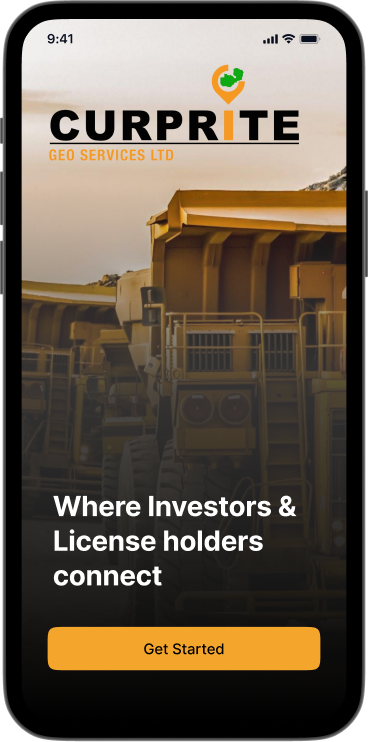
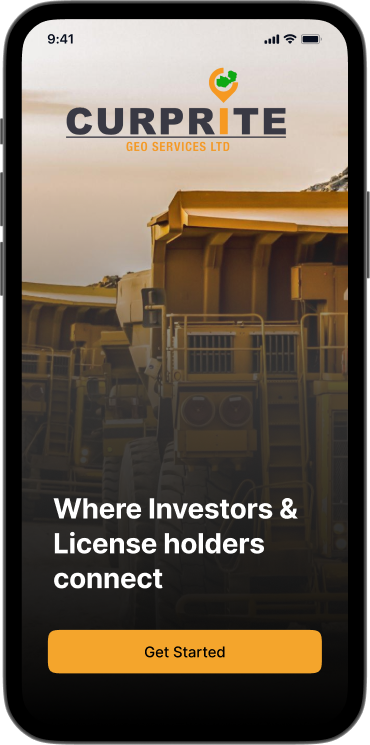
Fixes

diff --git a/index.html b/index.html
@@ -38,64 +38,20 @@
 
 <body>
 
-    <!--====== OFFCANVAS MENU PART START ======-->
-
-    <div class="off_canvars_overlay" >
-
-    </div>
-    <div class="offcanvas_menu" >
-        <div class="container-fluid">
-            <div class="row">
-                <div class="col-12">
-                    <div class="offcanvas_menu_wrapper">
-                        <div class="canvas_close">
-                            <a href="javascript:void(0)"><i class="fal fa-times"></i></a>
-                        </div>
-                   
-                        <div id="menu" class="text-left" style="color:orange;">
-                           <ul class="offcanvas_main_menu">
-                                <li class="menu-item-has-children active">
-                                    <a class="page-scroll" href="#home" style="color:orange;">Home</a>
-                                </li>
-                                <li class="menu-item-has-children">
-                                    <a class="page-scroll" href="#intro">Intro</a>
-                                </li>
-                                <li class="menu-item-has-children ">
-                                    <a class="page-scroll" href="#team">Team</a>
-                                </li>
-                                <li class="menu-item-has-children ">
-                                    <a class="page-scroll" href="#services">Services</a>
-                                </li>
-                                <li class="menu-item-has-children">
-                                    <a class="page-scroll" href="#preview">Preview</a>
-                                </li>
-                                <!-- <li class="menu-item-has-children ">
-                                    <a class="page-scroll" href="/platform">Investor Platform</a>
-                                </li> -->
-                            </ul>
-                        </div>
-                        <div class="offcanvas_footer">
-                            <span><a href="mailto:support@zmh.co.zm"><i class="fa fa-envelope-o"></i>
-                                    support@zmh.co.zm</a></span>
-                        </div>
-                    </div>
-                </div>
-            </div>
-        </div>
-    </div>
-
-    <!--====== OFFCANVAS MENU PART ENDS ======-->
-
+    
     <!--====== HEADER PART START ======-->
 
     <header id="home" class="header-area header-v1-area" >
         <div class="header-nav" style="background-color: white; margin-top: -25px; padding-top: 20px; padding-bottom: 20px;">
+          
             <div class="container" >
                 <div class="row" >
                     <div class="col-lg-12" >
                         <div class="navigation" >
                             <nav class="navbar navbar-expand-lg navbar-light">
-                                <a class="navbar-brand" href="index.html"><img width="200"src="https://github.com/Mwimwii/mining-hub/blob/master/assets/images/Logo.png?raw=true" alt=""></a>
+                                <a class="navbar-brand" href="index.html">
+                                    <img class="to-grey" width="200" src="assets/images/logo.png"/>
+                                </a>
                                 <span class="side-menu__toggler canvas_open"><i class="fa fa-bars"></i></span>
 
                                 <div class="collapse navbar-collapse sub-menu-bar main-nav__main-navigation"
@@ -146,7 +102,9 @@
                 </div>
                 <div class="col-lg-6">
                     <div class="hero-thumb">
-                        <img src="assets/images/hero-thumb.png" alt="">
+                        <a class="page-scroll" href="#intro">
+                            <img src="assets/images/hero-thumb.png" alt="">
+                        </a>
                     </div>
                 </div>
             </div>
@@ -221,8 +179,8 @@
                                 </div>
                                 <div class="capture-content">
                                     <h4 class="title" style="font-size: 1.2em; font-weight: bold;">Managing Geologist/Director</h4>
-                                    <p style="font-size: 1em; margin-bottom: 5px;">Trust Hatuma (B.Min.Sc Geol, REng, MEIZ)</p>
-                                    <ul style="list-style-type: disc; padding-left: 20px; font-size: 0.9em;">
+                                    <p style="font-size: 1em; margin-bottom: 5px;">Trust Hatuma <span class="extra-certs for-bigscreen">(B.Min.Sc Geol, REng, MEIZ)</span></p>
+                                    <ul class="for-bigscreen" style="list-style-type: disc; padding-left: 20px; font-size: 0.9em;">
                                         <li>Education: Bachelor’s degree in Geology from the University of Zambia</li>
                                         <li>Experience: Over 22 years in progressive exploration and mining</li>
                                         <li>Expertise: Base metal and ground water exploration</li>
@@ -238,8 +196,8 @@
                                 </div>
                                 <div class="capture-content">
                                     <h4 class="title" style="font-size: 1.2em; font-weight: bold;">Senior Geologist</h4>
-                                    <p style="font-size: 1em; margin-bottom: 5px;">Teclah Munanku (M.Min Sc, B.Min.Sc, MSc)</p>
-                                    <ul style="list-style-type: disc; padding-left: 20px; font-size: 0.9em;">
+                                    <p style="font-size : 1em; margin-bottom: 5px;">Teclah Munanku<span class="extra-certs for-bigscreen">(M.Min Sc, B.Min.Sc, MSc)</span></p>
+                                    <ul class="for-bigscreen" style="list-style-type: disc; padding-left: 20px; font-size: 0.9em;">
                                         <li>Education: Master of Mineral Science and Bachelor’s degree in Geology from the University of Zambia</li>
                                         <li>Experience: 5 years in Geology, Hydrogeology, and Environmental Management</li>
                                         <li>Expertise: Environmental laws, geochemical soil sampling</li>
@@ -254,8 +212,8 @@
                                 </div>
                                 <div class="capture-content">
                                     <h4 class="title" style="font-size: 1.2em; font-weight: bold;">Business Development Manager</h4>
-                                    <p style="font-size: 1em; margin-bottom: 5px;">Thelma Hatuma (BA Business Administration with Economics)</p>
-                                    <ul style="list-style-type: disc; padding-left: 20px; font-size: 0.9em;">
+                                    <p style="font-size: 1em; margin-bottom: 5px;">Thelma Hatuma<span class="extra-certs for-bigscreen">(BA Business Administration with Economics)</span></p>
+                                    <ul class="for-bigscreen" style="list-style-type: disc; padding-left: 20px; font-size: 0.9em;">
                                         <li>Education: Bachelor of Arts degree in Business Administration with Economics</li>
                                         <li>Experience: 1 year in Business management specializing in marketing and sales, project management, and monitoring evaluation</li>
                                     </ul>
@@ -269,9 +227,9 @@
                                 </div>
                                 <div class="capture-content">
                                     <h4 class="title" style="font-size: 1.2em; font-weight: bold;">Business Analysis Specialist and Communication Officer</h4>
-                                    <p style="font-size: 1em; margin-bottom: 5px;">Helen Kalonje Zulu ( Diploma in Journalism and Public Relations)</p>
-                                    <p style="font-size: 1em; margin-bottom: 5px;">Experience:</p>
-                                    <ul style="list-style-type: disc; padding-left: 20px; font-size: 0.9em;">
+                                    <p style="font-size: 1em; margin-bottom: 5px;">Helen Kalonje Zulu<span class="extra-certs for-bigscreen">( Diploma in Journalism and Public Relations)</span></p>
+                                    <p class="for-bigscreen"  style="font-size: 1em; margin-bottom: 5px;">Experience:</p>
+                                    <ul class="for-bigscreen" style="list-style-type: disc; padding-left: 20px; font-size: 0.9em;">
                                         <li>7 years in Business reporting</li>
                                         <li>1 year in Asset management & analytical Skills, business analysis, business development</li>
                                     </ul>
@@ -426,26 +384,24 @@
                             <ul class="nav">
                                 <div class="d-flex flex-column justify-content-start align-items-start" >
                                     <li style="font-weight: 700; font-size: larger; padding-left: 15px; margin-bottom: 20px;">Available 2024!</li>
-                                <li><a class="main-btn" href="#" data-toggle="modal" data-target="#exampleModal">Get Early Access<i class="fas fa-angle-right"></i></a></li>
-
-                            </div>
-
+                                    <!-- for large screen -->
+                                    <li><a class="main-btn for-bigscreen" href="#" data-toggle="modal" data-target="#exampleModal">Get Early Access<i class="fas fa-angle-right"></i></a></li>
+                                </div>
+                                
                             </ul>
                         </div>
+                        <!-- for xs screen -->
+                        
+                        
                     </div>
                 </div>
+                <a class="main-btn for-smallscreen" style="margin: auto;" href="#" data-toggle="modal" data-target="#exampleModal">Get Early Access<i class="fas fa-angle-right"></i></a>
             </div>
         </div>
     </section>
 
     <!--====== INTRO PART ENDS ======-->
 
-    <!--====== TESTIMONIAL PART START ======-->
-
-
-
-
-    <!--====== DOWNLOAD PART ENDS ======-->
 
     <!--====== SCREENSHOT PART START ======-->
 
@@ -493,6 +449,11 @@
                 </div>
                 <div class="col-lg-3">
                     <div class="screenshot-item mt-30">
+                        <img src="assets/images/screenshot-6.png" alt="screenshot">
+                    </div>
+                </div>
+                <div class="col-lg-3">
+                    <div class="screenshot-item mt-30">
                         <img src="assets/images/screenshot-2.png" alt="screenshot">
                     </div>
                 </div>
@@ -517,8 +478,11 @@
                         <ul class="nav">
                             <li>
                                 
-                                <a class="main-btn main-btn-3" href="#" data-toggle="modal" data-target="#exampleModal">Get Early Access <i
-                                        class="fas fa-angle-right"></i></a></li>
+                                <a class="main-btn main-btn-3" href="#" data-toggle="modal" data-target="#exampleModal">
+                                    Get Early Access
+                                     <i class="fas fa-angle-right"></i>
+                                    </a>
+                                </li>
 
                         </ul>
                     </div>
@@ -543,7 +507,9 @@
             <div class="row">
                 <div class="col-lg-4 col-md-6">
                     <div class="footer-about mt-30">
-                        <a href="#"><img src="https://github.com/Mwimwii/mining-hub/blob/master/assets/images/Logo.png?raw=true" alt=""></a>
+                        <a href="#">
+                                    <img class="to-grey" width="200" src="assets/images/logo.png"/>
+                        </a>
                         <p>Curprite GeoServices Limited (CGL) is an application that connects </p>
                         <ul>
                             <li><a href="#"><i class="fab fa-facebook-f"></i></a></li>

diff --git a/assets/css/style.css b/assets/css/style.css
@@ -288,6 +288,11 @@ p {
 .header-nav .navigation .navbar .navbar-brand-2 {
   display: none;
 }
+@media (max-width: 767px) {
+  .navbar-brand {
+    margin-left: 100px;
+  }
+}
 .header-nav .navigation .navbar .country-flag img {
   border: 5px solid #fff;
   border-radius: 6px;
@@ -1284,6 +1289,7 @@ p {
     line-height: 40px;
   }
 }
+
 .capture-area {
   width: 100vw;
   overflow: hidden;
@@ -1296,10 +1302,17 @@ p {
 .capture-area .container .col-12 {
   overflow: visible;
 }
+
 .capture-item {
-  background: #fff;
+  transition: 4s ease-in-out;
+  background: linear-gradient(to bottom, #fffbee, rgb(243, 229, 203));
   margin: 0 15px;
   margin-top: 35px;
+  border-radius: 10px;
+}
+.capture-item:hover {
+  bottom: 0;
+  box-shadow: 0 4px 6px rgba(0, 0, 0, 0.09);
 }
 .capture-item .capture-thumb {
   background-color: transparent;
@@ -1311,10 +1324,6 @@ p {
 .capture-item .capture-content {
   padding: 40px 61px;
 }
-.capture-item .capture-content i {
-  color: #ffc000;
-  font-size: 60px;
-}
 .capture-item .capture-content .title {
   font-size: 20px;
   line-height: 30px;
@@ -1323,6 +1332,27 @@ p {
   padding-top: 30px;
   padding-bottom: 20px;
 }
+@media (max-width: 767px) {
+  .capture-item .capture-content {
+    padding: 10px;
+    display: flex;
+    flex-direction: column;
+    align-items: center;
+  }
+  .capture-item .capture-content .title {
+    font-size: 5px;
+    line-height: 30px;
+    font-weight: 600;
+    color: #2e2e2e;
+    padding-top: 15px;
+    padding-bottom: 10px;
+    text-align: center;
+  }
+}
+.capture-item .capture-content i {
+  color: #ffc000;
+}
+
 .capture-active {
   overflow: visible;
 }
@@ -1392,6 +1422,16 @@ p {
 @media (max-width: 767px) {
   .faq-area::before {
     width: 100%;
+  }
+}
+@media (min-width: 767px) {
+  .for-smallscreen {
+    display: none;
+  }
+}
+@media (max-width: 767px) {
+  .for-bigscreen {
+    display: none;
   }
 }
 .faq-area::after {
@@ -1711,7 +1751,7 @@ p {
   transform: translateY(-50%);
   background-image: url(../images/features-shape.jpg);
   width: 850px;
-  height: 600px;
+  height: 630px;
 }
 @media only screen and (min-width: 1200px) and (max-width: 1600px) {
   .intro-area::before {

diff --git a/assets/js/main.js b/assets/js/main.js
@@ -125,7 +125,7 @@ $(function () {
       {
         breakpoint: 768,
         settings: {
-          slidesToShow: 1.4,
+          slidesToShow: 1,
         },
       },
     ],
